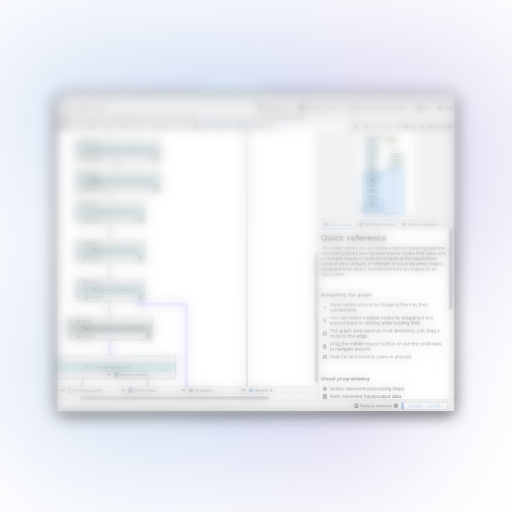
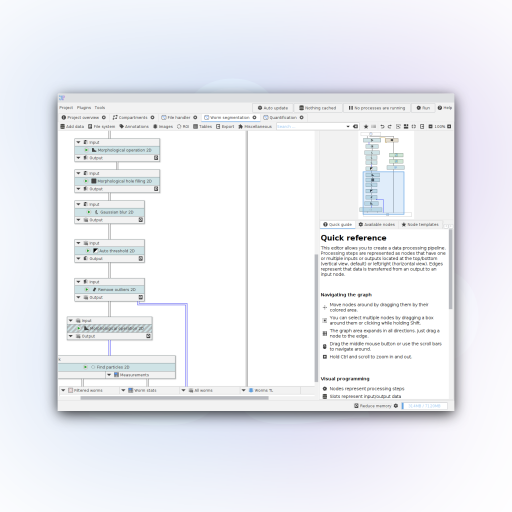
+ Extension manager work

diff --git a/jipipe-core/src/main/java/org/hkijena/jipipe/ui/extensions/JIPipeModernPluginManagerUI.java b/jipipe-core/src/main/java/org/hkijena/jipipe/ui/extensions/JIPipeModernPluginManagerUI.java
@@ -15,12 +15,30 @@
 package org.hkijena.jipipe.ui.extensions;
 
 import org.hkijena.jipipe.JIPipe;
+import org.hkijena.jipipe.JIPipeDependency;
+import org.hkijena.jipipe.api.registries.JIPipeExtensionRegistry;
 import org.hkijena.jipipe.ui.JIPipeWorkbench;
 import org.hkijena.jipipe.ui.JIPipeWorkbenchPanel;
+import org.hkijena.jipipe.utils.AutoResizeSplitPane;
+import org.hkijena.jipipe.utils.UIUtils;
 
+import javax.swing.*;
 import java.awt.BorderLayout;
+import java.awt.Font;
+import java.awt.GridBagConstraints;
+import java.awt.GridBagLayout;
+import java.awt.Insets;
+import java.util.ArrayList;
+import java.util.List;
+import java.util.function.Supplier;
+import java.util.stream.Collectors;
 
 public class JIPipeModernPluginManagerUI extends JIPipeWorkbenchPanel {
+
+    private ExtensionListPanel extensionListPanel;
+
+    private JPanel sidePanel;
+    private List<JIPipeDependency> currentlyShownItems = new ArrayList<>(JIPipe.getInstance().getExtensionRegistry().getKnownExtensions());
 
     public JIPipeModernPluginManagerUI(JIPipeWorkbench workbench) {
         super(workbench);
@@ -28,8 +46,40 @@ public class JIPipeModernPluginManagerUI extends JIPipeWorkbenchPanel {
     }
 
     private void initialize() {
+        // Main panel
         setLayout(new BorderLayout());
-        ExtensionListPanel panel = new ExtensionListPanel(getWorkbench(), JIPipe.getInstance().getExtensionRegistry().getKnownExtensions());
-        add(panel, BorderLayout.CENTER);
+
+        AutoResizeSplitPane splitPane = new AutoResizeSplitPane(JSplitPane.HORIZONTAL_SPLIT, 1.0 / 5.0);
+        add(splitPane, BorderLayout.CENTER);
+
+        extensionListPanel = new ExtensionListPanel(getWorkbench(), JIPipe.getInstance().getExtensionRegistry().getKnownExtensions());
+        splitPane.setRightComponent(extensionListPanel);
+
+        // Side panel
+        sidePanel = new JPanel();
+        sidePanel.setLayout(new GridBagLayout());
+        splitPane.setLeftComponent(sidePanel);
+        initializeSidePanel();
+    }
+
+    private void initializeSidePanel() {
+        JIPipeExtensionRegistry extensionRegistry = JIPipe.getInstance().getExtensionRegistry();
+        addSidePanelButton("All extensions", UIUtils.getIconFromResources("actions/plugins.png"), extensionRegistry::getKnownExtensions);
+        addSidePanelButton("Activated extensions", UIUtils.getIconFromResources("actions/checkmark.png"), () -> extensionRegistry.getKnownExtensions().stream().filter(dependency -> extensionRegistry.getActivatedExtensions().contains(dependency.getDependencyId())).collect(Collectors.toList()));
+        addSidePanelButton("Deactivated extensions", UIUtils.getIconFromResources("actions/close-tab.png"), () -> extensionRegistry.getKnownExtensions().stream().filter(dependency -> !extensionRegistry.getActivatedExtensions().contains(dependency.getDependencyId())).collect(Collectors.toList()));
+        sidePanel.add(new JPanel(), new GridBagConstraints(0, sidePanel.getComponentCount(), 1,1,1,1, GridBagConstraints.NORTH, GridBagConstraints.HORIZONTAL, new Insets(4,4,4,4), 0,0));
+    }
+
+    private void showItems(List<JIPipeDependency> items) {
+        this.currentlyShownItems = items;
+        extensionListPanel.setPlugins(items);
+    }
+
+    private void addSidePanelButton(String label, Icon icon, Supplier<List<JIPipeDependency>> items) {
+        JButton button = new JButton(label, icon);
+        button.setFont(new Font(Font.DIALOG, Font.PLAIN, 16));
+        button.setHorizontalAlignment(SwingConstants.LEFT);
+        button.addActionListener(e -> showItems(items.get()));
+        sidePanel.add(button, new GridBagConstraints(0, sidePanel.getComponentCount(), 1,1,1,0, GridBagConstraints.NORTH, GridBagConstraints.HORIZONTAL, new Insets(4,4,4,4), 0,0));
     }
 }

diff --git a/jipipe-core/src/main/java/org/hkijena/jipipe/ui/extensions/ExtensionListPanel.java b/jipipe-core/src/main/java/org/hkijena/jipipe/ui/extensions/ExtensionListPanel.java
@@ -25,21 +25,28 @@ import org.jdesktop.swingx.ScrollableSizeHint;
 import javax.swing.*;
 import java.awt.BorderLayout;
 import java.awt.FlowLayout;
+import java.util.ArrayDeque;
 import java.util.ArrayList;
 import java.util.Comparator;
+import java.util.Deque;
 import java.util.List;
 
 public class ExtensionListPanel extends JIPipeWorkbenchPanel {
 
-    private final List<JIPipeDependency> plugins;
+    private List<JIPipeDependency> plugins;
     private JXPanel listPanel;
+
+    private JScrollPane scrollPane;
+
+    private final Timer scrollToBeginTimer = new Timer(200, e -> scrollToBeginning());
+
+    private final Deque<JIPipeDependency> infiniteScrollingQueue = new ArrayDeque<>();
 
     public ExtensionListPanel(JIPipeWorkbench workbench, List<JIPipeDependency> plugins) {
         super(workbench);
-        this.plugins = new ArrayList<>(plugins);
-        this.plugins.sort(Comparator.comparing(this::isCoreDependency).thenComparing(dependency -> dependency.getMetadata().getName()));
+        this.scrollToBeginTimer.setRepeats(false);
         initialize();
-        lazyLoad();
+        setPlugins(plugins);
     }
 
     private boolean isCoreDependency(JIPipeDependency dependency) {
@@ -53,14 +60,46 @@ public class ExtensionListPanel extends JIPipeWorkbenchPanel {
         listPanel = new JXPanel(new ModifiedFlowLayout(FlowLayout.CENTER));
         listPanel.setScrollableWidthHint(ScrollableSizeHint.HORIZONTAL_STRETCH);
         listPanel.setScrollableHeightHint(ScrollableSizeHint.VERTICAL_STRETCH);
-        JScrollPane scrollPane = new JScrollPane(listPanel);
+        scrollPane = new JScrollPane(listPanel);
+//        scrollPane.getViewport().setScrollMode(JViewport.BACKINGSTORE_SCROLL_MODE);
+//        scrollPane.getVerticalScrollBar().setUnitIncrement(1);
         add(scrollPane, BorderLayout.CENTER);
     }
 
-    private void lazyLoad() {
-        for (JIPipeDependency plugin : plugins) {
-            ExtensionItemPanel itemPanel = new ExtensionItemPanel(getWorkbench(), plugin);
-            listPanel.add(itemPanel);
+    public List<JIPipeDependency> getPlugins() {
+        return plugins;
+    }
+
+    public void setPlugins(List<JIPipeDependency> plugins) {
+        this.plugins = new ArrayList<>(plugins);
+        this.plugins.sort(Comparator.comparing(this::isCoreDependency).thenComparing(dependency -> dependency.getMetadata().getName()));
+        listPanel.removeAll();
+        revalidate();
+        repaint();
+        infiniteScrollingQueue.clear();
+        for (JIPipeDependency plugin : this.plugins) {
+            infiniteScrollingQueue.addLast(plugin);
         }
+        SwingUtilities.invokeLater(this::updateInfiniteScroll);
+        scrollToBeginTimer.restart();
+    }
+
+    private void updateInfiniteScroll() {
+        JScrollBar scrollBar =scrollPane.getVerticalScrollBar();
+        if ((!scrollBar.isVisible() || (scrollBar.getValue() + scrollBar.getVisibleAmount()) > (scrollBar.getMaximum() - 32)) && !infiniteScrollingQueue.isEmpty()) {
+            JIPipeDependency value = infiniteScrollingQueue.removeFirst();
+            ExtensionItemPanel panel = new ExtensionItemPanel(getWorkbench(), value);
+            listPanel.add(panel);
+            revalidate();
+            repaint();
+            SwingUtilities.invokeLater(this::updateInfiniteScroll);
+        }
+    }
+
+    private void scrollToBeginning() {
+        scrollPane.getVerticalScrollBar().setValue(0);
+        scrollPane.getVerticalScrollBar().addAdjustmentListener(e -> {
+            updateInfiniteScroll();
+        });
     }
 }

diff --git a/jipipe-core/src/main/java/org/hkijena/jipipe/utils/BufferedImageUtils.java b/jipipe-core/src/main/java/org/hkijena/jipipe/utils/BufferedImageUtils.java
@@ -1,5 +1,8 @@
 package org.hkijena.jipipe.utils;
 
+import ij.plugin.filter.GaussianBlur;
+import ij.process.ByteProcessor;
+import ij.process.ColorProcessor;
 import sun.misc.BASE64Decoder;
 import sun.misc.BASE64Encoder;
 
@@ -120,4 +123,46 @@ public class BufferedImageUtils {
         graphics.dispose();
         return result;
     }
+
+    public static BufferedImage spatialBlurLinear(BufferedImage bi, Point start, Point end, double sigma) {
+
+        BufferedImage maskImage = new BufferedImage(bi.getWidth(), bi.getHeight(), BufferedImage.TYPE_BYTE_GRAY);
+        Graphics2D graphics2D = maskImage.createGraphics();
+        LinearGradientPaint paint = new LinearGradientPaint(start.x, start.y, end.x, end.y, new float[] {0f, 1f}, new Color[] {Color.WHITE, Color.BLACK});
+        graphics2D.setPaint(paint);
+        graphics2D.fillRect(0,0,bi.getWidth(), bi.getHeight());
+        graphics2D.dispose();
+
+        ByteProcessor mask = new ByteProcessor(maskImage);
+        ColorProcessor img = new ColorProcessor(bi);
+        ColorProcessor blurred = new ColorProcessor(bi);
+        GaussianBlur blur = new GaussianBlur();
+        blur.blurGaussian(blurred, sigma);
+        byte[] maskPixels = (byte[]) mask.getPixels();
+        int[] imgPixels = (int[]) img.getPixels();
+        int[] blurredPixels = (int[]) blurred.getPixels();
+        for (int i = 0; i < maskPixels.length; i++) {
+            double fac = Byte.toUnsignedInt(maskPixels[i]) / 255.0;
+            int src1 = imgPixels[i];
+            int src2 = blurredPixels[i];
+            int r1 = (src1 & 0xff0000) >> 16;
+            int g1 = ((src1 & 0xff00) >> 8);
+            int b1 = (src1 & 0xff);
+            int r2 = (src2 & 0xff0000) >> 16;
+            int g2 = ((src2 & 0xff00) >> 8);
+            int b2 = (src2 & 0xff);
+            int r = lerpColorValue(r1, r2, fac);
+            int g = lerpColorValue(g1, g2, fac);
+            int b = lerpColorValue(b1, b2, fac);
+            int rgb =  (r << 16) + (g << 8) + b;
+            imgPixels[i] = rgb;
+        }
+
+        return img.getBufferedImage();
+    }
+
+    public static int lerpColorValue(int x0, int x1, double frac) {
+        return (int) (x0 + frac * (x1 - x0));
+    }
+
 }

diff --git a/jipipe-core/src/main/java/org/hkijena/jipipe/ui/extensions/ExtensionItemLogoPanel.java b/jipipe-core/src/main/java/org/hkijena/jipipe/ui/extensions/ExtensionItemLogoPanel.java
@@ -22,9 +22,17 @@ import org.hkijena.jipipe.utils.ResourceUtils;
 
 import javax.swing.*;
 import java.awt.Graphics;
+import java.awt.Point;
 import java.awt.image.BufferedImage;
+import java.util.IdentityHashMap;
+import java.util.Map;
 
 public class ExtensionItemLogoPanel extends JPanel {
+
+    private static final Map<BufferedImage, BufferedImage> THUMBNAIL_CACHE = new IdentityHashMap<>();
+
+    private static final Map<BufferedImage, BufferedImage> THUMBNAIL_DISABLED_CACHE = new IdentityHashMap<>();
+
     private final JIPipeDependency extension;
     private BufferedImage thumbnail;
 
@@ -43,7 +51,19 @@ public class ExtensionItemLogoPanel extends JPanel {
         else {
             thumbnail = new ImageParameter(ResourceUtils.getPluginResource("extension-thumbnail-default.png")).getImage();
         }
-        thumbnailDeactivated = BufferedImageUtils.toBufferedImage(thumbnail, BufferedImage.TYPE_BYTE_GRAY);
+        BufferedImage originalThumbnail = thumbnail;
+        BufferedImage cachedThumbnail = THUMBNAIL_CACHE.getOrDefault(thumbnail, null);
+        if(cachedThumbnail != null) {
+            thumbnailDeactivated = THUMBNAIL_DISABLED_CACHE.get(originalThumbnail);
+            thumbnail = cachedThumbnail;
+        }
+        else {
+            thumbnail = BufferedImageUtils.spatialBlurLinear(thumbnail, new Point(0,0), new Point(thumbnail.getWidth(), thumbnail.getHeight()), 15);
+            thumbnailDeactivated = BufferedImageUtils.toBufferedImage(thumbnail, BufferedImage.TYPE_BYTE_GRAY);
+            THUMBNAIL_CACHE.put(originalThumbnail, thumbnail);
+            THUMBNAIL_DISABLED_CACHE.put(originalThumbnail, thumbnailDeactivated);
+        }
+
     }
 
     private boolean drawExtensionActivated() {

diff --git a/jipipe-core/src/main/java/org/hkijena/jipipe/extensions/JIPipePrepackagedDefaultJavaExtension.java b/jipipe-core/src/main/java/org/hkijena/jipipe/extensions/JIPipePrepackagedDefaultJavaExtension.java
@@ -15,6 +15,7 @@ package org.hkijena.jipipe.extensions;
 
 import org.hkijena.jipipe.JIPipeDefaultJavaExtension;
 import org.hkijena.jipipe.api.JIPipeAuthorMetadata;
+import org.hkijena.jipipe.extensions.parameters.library.images.ImageParameter;
 import org.hkijena.jipipe.extensions.parameters.library.primitives.list.StringList;
 import org.hkijena.jipipe.utils.ResourceUtils;
 
@@ -26,6 +27,12 @@ import java.util.List;
  * {@link JIPipeDefaultJavaExtension} for internal usage
  */
 public abstract class JIPipePrepackagedDefaultJavaExtension extends JIPipeDefaultJavaExtension {
+
+    public JIPipePrepackagedDefaultJavaExtension() {
+        if(isCoreExtension()) {
+            getMetadata().setThumbnail(new ImageParameter(ResourceUtils.getPluginResource("core-extension-thumbnail-default.png")));
+        }
+    }
 
     @Override
     public List<JIPipeAuthorMetadata> getAuthors() {

diff --git a/jipipe-core/src/main/java/org/hkijena/jipipe/JIPipeJavaExtension.java b/jipipe-core/src/main/java/org/hkijena/jipipe/JIPipeJavaExtension.java
@@ -88,4 +88,6 @@ public interface JIPipeJavaExtension extends SciJavaPlugin, JIPipeDependency {
     default boolean isCoreExtension() {
         return false;
     }
+
+
 }
